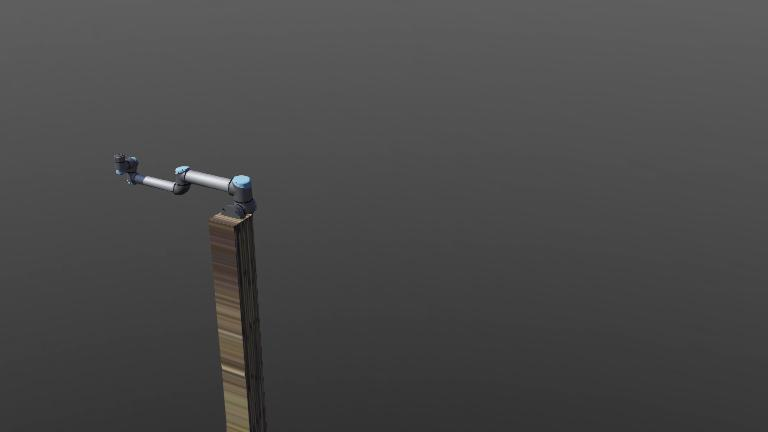
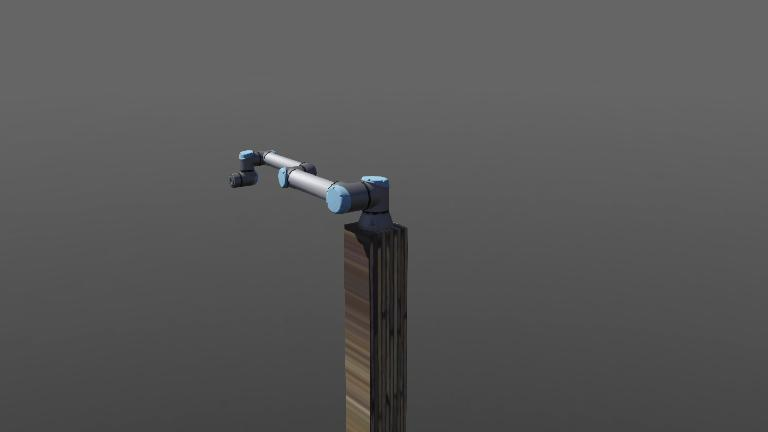
modified controller and world scene

Changed region(s): [[0.125, 0.331, 0.5312, 1.0]]

diff --git a/controllers/UR10_3D3PM/UR10.py b/controllers/UR10_3D3PM/UR10.py
@@ -1,0 +1,185 @@
+from controller import Robot
+import math
+import random
+from ikpy.chain import Chain
+from ikpy.link import OriginLink, URDFLink
+
+from controller import AnsiCodes
+
+print("This is " + AnsiCodes.RED_FOREGROUND + "red" + AnsiCodes.RESET + "!")
+
+
+
+robot=Robot()
+timestep=64
+
+shoulder_pan_joint_sensor=robot.getDevice("shoulder_lift_joint_sensor")
+shoulder_pan_joint_sensor.enable(timestep)
+shoulder_pan_joint=robot.getDevice("shoulder_pan_joint")
+shoulder_pan_joint.setPosition(float('inf'))
+shoulder_pan_joint.setPosition(0)
+
+shoulder_lift_joint_sensor=robot.getDevice("shoulder_lift_joint_sensor")
+shoulder_lift_joint_sensor.enable(timestep)
+shoulder_lift_joint=robot.getDevice("shoulder_lift_joint")
+shoulder_lift_joint.setPosition(float('inf'))
+shoulder_lift_joint.setPosition(0) #-1.5708=90deg
+
+
+elbow_joint_sensor=robot.getDevice("elbow_joint_sensor")
+elbow_joint_sensor.enable(timestep)
+elbow_joint=robot.getDevice("elbow_joint")
+elbow_joint.setPosition(float('inf'))
+elbow_joint.setVelocity(0)
+
+
+wrist_1_joint_sensor=robot.getDevice("wrist_1_joint_sensor")
+wrist_1_joint_sensor.enable(timestep)
+wrist_1_joint=robot.getDevice("wrist_1_joint")
+wrist_1_joint.setPosition(float('inf'))
+wrist_1_joint.setPosition(0)
+
+wrist_2_joint_sensor=robot.getDevice("wrist_2_joint_sensor")
+wrist_2_joint_sensor.enable(timestep)
+wrist_2_joint=robot.getDevice("wrist_2_joint")
+wrist_2_joint.setPosition(float('inf'))
+wrist_2_joint.setPosition(0)
+
+wrist_3_joint_sensor=robot.getDevice("wrist_3_joint_sensor")
+wrist_3_joint_sensor.enable(timestep)
+wrist_3_joint=robot.getDevice("wrist_3_joint")
+wrist_3_joint.setPosition(float('inf'))
+wrist_3_joint.setPosition(0)
+    
+    
+    
+def rand():
+    return [0.01*random.randrange(-200, 200),0.01*random.randrange(-200, 200),0.01*random.randrange(-200, 200)]
+
+
+def setposition(jointang):
+    shoulder_pan_joint.setPosition(jointang[1])
+    shoulder_pan_joint.setVelocity(1)
+    
+    shoulder_lift_joint.setPosition(-jointang[2])
+    shoulder_lift_joint.setVelocity(1)
+      
+    elbow_joint.setPosition(-6.38+(3.14+jointang[3]))
+    elbow_joint.setVelocity(1)
+         
+    wrist_1_joint.setPosition(jointang[4])
+    wrist_1_joint.setVelocity(1)
+    
+    wrist_2_joint.setPosition(jointang[5])
+    wrist_2_joint.setVelocity(1)
+    
+    wrist_3_joint.setPosition(jointang[6])
+    wrist_3_joint.setVelocity(1)
+
+
+
+
+
+
+def main():
+    
+    my_chain = Chain.from_urdf_file("/home/rafay/OldData/T440p_D_Directory/Webots/controllers/IK_Practice/ikpy_master/resources/poppy_ergo.URDF")
+    left_arm_chain = Chain(name='left_arm', links=[
+    OriginLink(),
+    URDFLink(
+      name="shoulder",
+      origin_translation=[-10, 0, 5],
+      origin_orientation=[0, 1.57, 0],
+      rotation=[0, 1, 0],
+    ),
+    URDFLink(
+      name="elbow",
+      origin_translation=[25, 0, 0],
+      origin_orientation=[0, 0, 0],
+      rotation=[0, 1, 0],
+    ),
+    URDFLink(
+      name="wrist",
+      origin_translation=[22, 0, 0],
+      origin_orientation=[0, 0, 0],
+      rotation=[0, 1, 0],
+    )
+    ])
+
+  
+    print("Inverse Kinematics:  ")
+    randomposition=rand()
+    print("It is the rest position: X, Y, Z: ", end ="")
+    print(randomposition)
+    
+    jointang = my_chain.inverse_kinematics(target_position=randomposition)
+    # jointang=my_chain.inverse_kinematics(target_position=[-.2,.7,-.7])
+    print(jointang)
+    
+    
+    
+    counter=0
+    while robot.step(timestep)!=-1:
+        
+    
+        if counter==1:
+            setposition(jointang)
+                
+                
+        if counter ==100:
+            print("\n\n\n")
+            print("Inverse Kinematics:  ")
+            ranposition=rand()
+            print("Point %s is: X, Y, Z: " %(1), end="")
+            print(ranposition)
+            
+            jointangles=my_chain.inverse_kinematics(target_position=ranposition)
+            # jointang=my_chain.inverse_kinematics(target_position=[-.2,.7,-.7])
+            print(jointangles)
+            print("\n\n\n")
+            setposition(jointangles)    
+                
+            
+        if counter == 200:
+            print("\n\n\n")
+            print("Inverse Kinematics:  ")
+            ranposition=rand()
+            print("Point %s is: X, Y, Z: " %(2), end="")
+            print(ranposition)
+            
+            jointangles=my_chain.inverse_kinematics(target_position=ranposition)
+            # jointang=my_chain.inverse_kinematics(target_position=[-.2,.7,-.7])
+            print(jointangles)
+            print("\n\n\n")
+            setposition(jointangles) 
+        
+        if counter == 300:
+            print("\n\n\n")
+            print("Inverse Kinematics:  ")
+            ranposition=rand()
+            print("Point %s is: X, Y, Z: " %3, end="")
+            print(ranposition)
+            
+            jointangles=my_chain.inverse_kinematics(target_position=ranposition)
+            # jointang=my_chain.inverse_kinematics(target_position=[-.2,.7,-.7])
+            print(jointangles)
+            print("\n\n\n")
+            setposition(jointangles)
+            
+            
+        if counter == 400:
+            print("\n\n\n")
+            print("Back to rest position: X, Y, Z: ", end ="")
+            print(randomposition)
+             # jointang=my_chain.inverse_kinematics(target_position=[-.2,.7,-.7])
+            print(jointang)
+            print("\n\n\n")
+            setposition(jointang)
+            
+            
+          
+        counter+=1
+
+
+if __name__=="__main__":
+    main()
